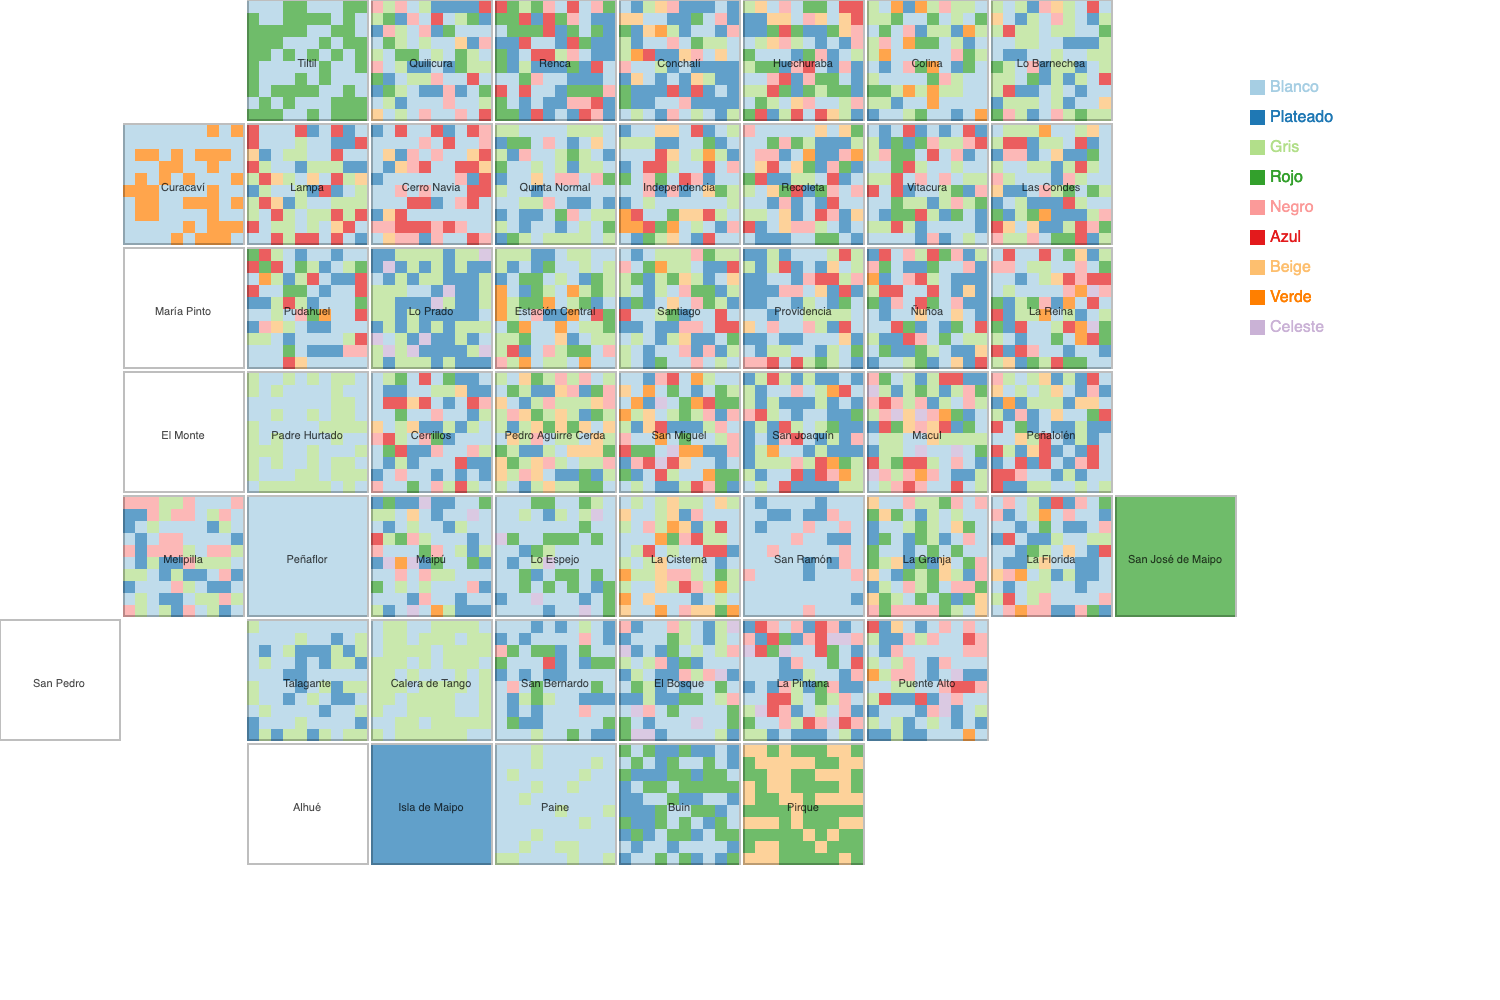
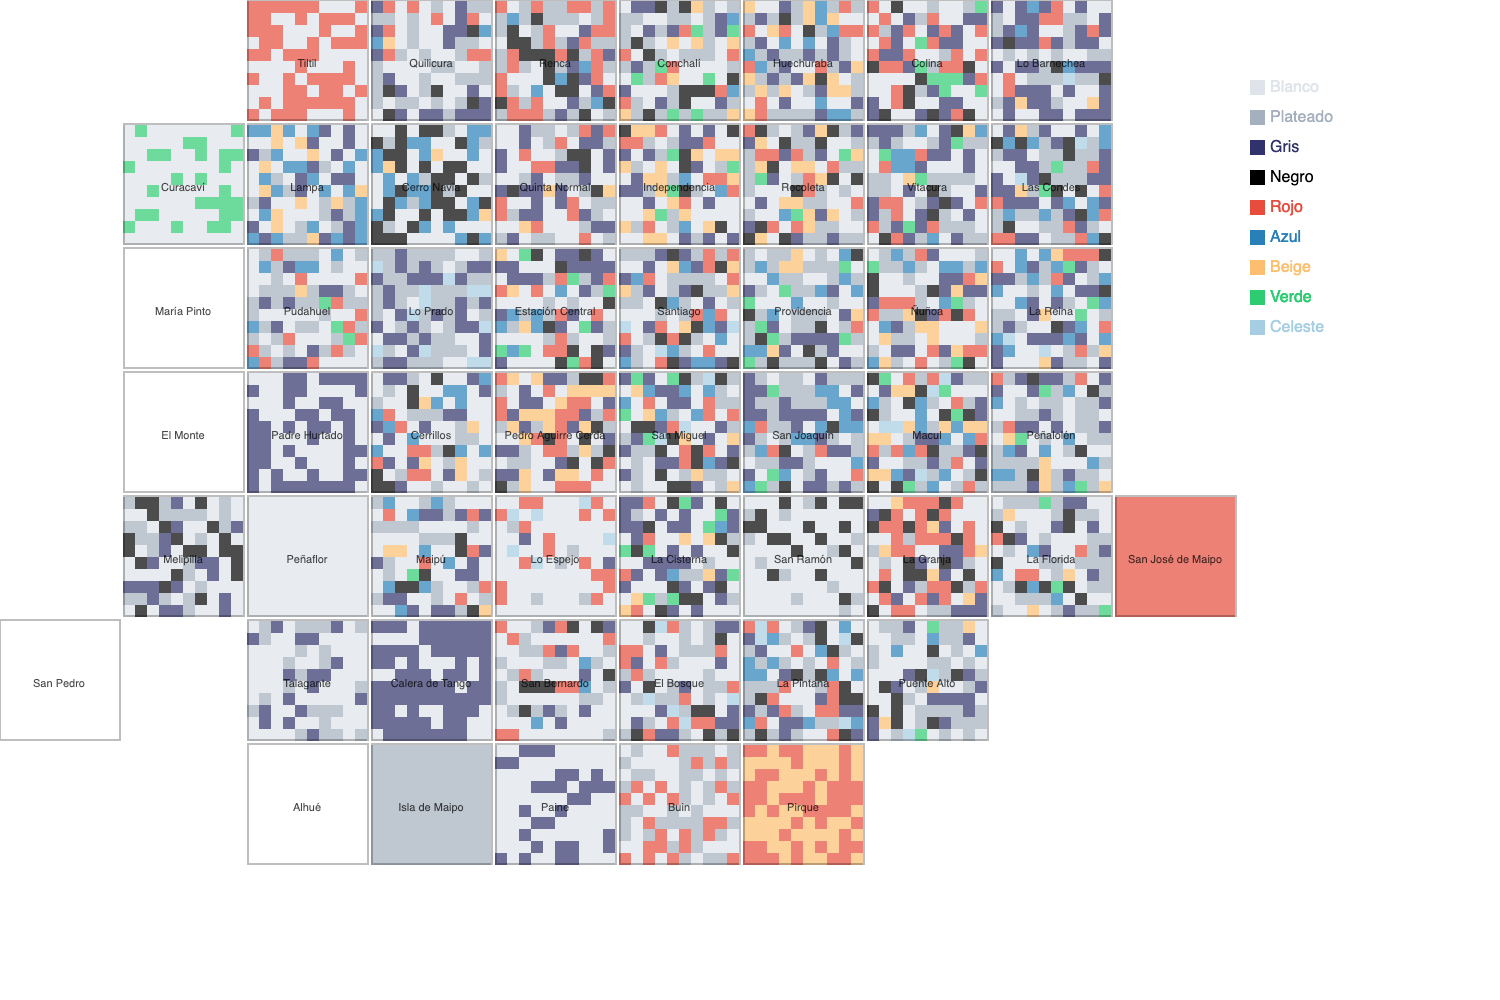
added juxtapose vis and animation in home

diff --git a/public/javascripts/Magnifier.js b/public/javascripts/Magnifier.js
@@ -170,21 +170,31 @@ var Magnifier = function (evt, options) {
                 lens.className = 'magnifier-lens hidden';
                 lens.removeChild(lens.childNodes[0]);
                 lens.style.background = 'url(' + thumb.src + ') no-repeat 0 0 scroll';
-
                 large.id = idx + '-large';
                 large.style.width = data[idx].largeW + 'px';
                 large.style.height = data[idx].largeH + 'px';
-                large.className = 'magnifier-large hidden';
+                large.className = 'magnifier-large';
 
                 if (data[idx].mode === 'inside') {
                     lens.appendChild(large);
+
                 } else {
                     largeWrapper.appendChild(large);
                 }
+
+
             }
 
             lens.style.width = data[idx].lensW + 'px';
             lens.style.height = data[idx].lensH + 'px';
+            
+            d3.select("#thumb-lens")
+            .append('div')
+            .attr("id","yearLens")
+            .attr("class","yearLens")
+            .text(selectedYearFront)
+            
+
         },
         getMousePos = function () {
             var xPos = pos.x - curData.x,
@@ -355,6 +365,7 @@ var Magnifier = function (evt, options) {
                     curLens.className = 'magnifier-loader';
                 } else if (curData.status === 2) {
                     curLens.className = 'magnifier-lens';
+
                     curLarge.className = 'magnifier-large';
                     curLarge.style.left = '-' + curData.largeL + 'px';
                     curLarge.style.top = '-' + curData.largeT + 'px';
@@ -380,6 +391,7 @@ var Magnifier = function (evt, options) {
             }
 
             status = curData.status;
+
         },
         setThumbData = function (thumb, thumbData) {
             var thumbBounds = thumb.getBoundingClientRect(),
@@ -409,6 +421,7 @@ var Magnifier = function (evt, options) {
 
             thumbData.largeW = Math.round(adjusted_width);
             thumbData.largeH = Math.round(adjusted_height);
+
         };
 
     this.attach = function (options) {
@@ -523,6 +536,8 @@ var Magnifier = function (evt, options) {
         };
 
         evt.attach('mouseover', thumb, function (e, src) {
+
+            
             if (curData.status !== 0) {
                 onThumbLeave();
             }
@@ -555,6 +570,7 @@ var Magnifier = function (evt, options) {
 
         evt.attach('mousemove', thumb, function (e, src) {
             isOverThumb = 1;
+
         });
 
         evt.attach('load', thumbObj, function () {
@@ -597,3 +613,4 @@ var Magnifier = function (evt, options) {
         }
     });
 };
+

diff --git a/public/javascripts/staticColor.js b/public/javascripts/staticColor.js
@@ -32,17 +32,29 @@ const categories_mapa = {
 };
 
 var colorScale = d3.scaleOrdinal(d3.schemePaired);
-console.log("colorScale(0)",colorScale(0));
+// a6cee3
+// 1f78b4
+// b2df8a
+// 33a02c
+// fb9a99
+// e31a1c
+// fdbf6f
+// ff7f00
+// cab2d6
+// 6a3d9a
+// ffff99
+// b15928
+
 var categories = {
-  "Blanco":colorScale(0) , 
-  "Plateado":colorScale(1) ,
-  "Gris":colorScale(2) ,
-  "Rojo":colorScale(3) ,
-  "Negro":colorScale(4) ,
-  "Azul":colorScale(5) ,
-  "Beige":colorScale(6) ,
-  "Verde":colorScale(7) ,
-  "Celeste":colorScale(8) ,
+  "Blanco": "#dfe4ea",
+  "Plateado": "#a4b0be",
+  "Gris": "#30336b",
+  "Negro":"#000" ,
+  "Rojo": "#e74c3c",
+  "Azul":"#2980b9" ,
+  "Beige":"#fdbf6f" ,
+  "Verde":"#2ecc71" ,
+  "Celeste":"#a6cee3",
 };
 
 var zoomLevel = 4;
@@ -55,9 +67,11 @@ var totalCatsState = {};
 var myScale = d3.scaleLinear().range([0, 10]);
 
 
-
-
-
+var seed = 2;
+function random() {
+  var x = Math.sin(seed++) * 10000;
+  return x - Math.floor(x);
+}
 
 function startVis(fileData) {
 
@@ -283,6 +297,9 @@ function getGridData2(ncol, nrow, width, height, data, stateData) {
     // console.log(colorArray);
   }
 
+
+
+
   var cellSize = calcCellSize(width, height, ncol, nrow);
 
   var gridData = [];
@@ -296,7 +313,7 @@ function getGridData2(ncol, nrow, width, height, data, stateData) {
     // iterate for cells/columns inside each row
     for (var col = 0; col < ncol; col++) {
       if (colorArray.length > 0){
-        var color = colorArray[Math.floor(Math.random() * colorArray.length)];
+        var color = colorArray[Math.floor(random() * colorArray.length)];
       
       var indexRow = myIndex(
         catsPerState[data.code],

diff --git a/public/javascripts/staticYear.js b/public/javascripts/staticYear.js
@@ -59,6 +59,11 @@ var totalCatsState = {};
 
 var myScale = d3.scaleLinear().range([0, 10]);
 
+var seed = 2;
+function random() {
+  var x = Math.sin(seed++) * 10000;
+  return x - Math.floor(x);
+}
 
 
 
@@ -301,7 +306,7 @@ function getGridData2(ncol, nrow, width, height, data, stateData) {
     // iterate for cells/columns inside each row
     for (var col = 0; col < ncol; col++) {
       if (colorArray.length > 0){
-        var color = colorArray[Math.floor(Math.random() * colorArray.length)];
+        var color = colorArray[Math.floor(random() * colorArray.length)];
       
       var indexRow = myIndex(
         catsPerState[data.code],

diff --git a/routes/index.js b/routes/index.js
@@ -45,4 +45,7 @@ router.get('/magicLenseColor', function(req, res, next) {
   res.render('magicLenseColor', {page:'color', menuId:'magicLense'});
 });
 
+router.get('/juxtaposeColor', function(req, res, next) {
+  res.render('juxtaposeColor', {page:'color', menuId:'yuxtapose'});
+});
 module.exports = router;

diff --git a/public/stylesheets/style.css b/public/stylesheets/style.css
@@ -30,7 +30,11 @@ svg {
   color: white;
 }
 #swipeYear {
-  width: 85%;
+  width: 100%;
+}
+
+#swipeColor {
+  width: 100%;
 }
 
 #traslucentYear {
@@ -41,4 +45,8 @@ svg {
   width: 1800px;
   display: flex;
   overflow: hidden;
+}
+
+#magicLenseYear {
+  width: 100%;
 }

diff --git a/public/stylesheets/magnifier.css b/public/stylesheets/magnifier.css
@@ -13,6 +13,15 @@
     left: 0;
     overflow: hidden
 }
+.yearLens {
+    position: absolute;
+    z-index: 1001;
+    top: 0;
+    left: 0;
+    overflow: hidden;
+    opacity: 0.75;
+}
+
 
 .magnifier-loader {
     position: absolute;

diff --git a/public/javascripts/juxtaposeColor.js b/public/javascripts/juxtaposeColor.js
@@ -6,7 +6,7 @@ var adjusted_height = 1000;
 
 
 
-var pathData = "../images/year/";
+var pathData = "../images/color/";
 var selectedYearFront = "2017";
 var selectedYearBack = "2016";
 var opacitySelected = 0.5;
